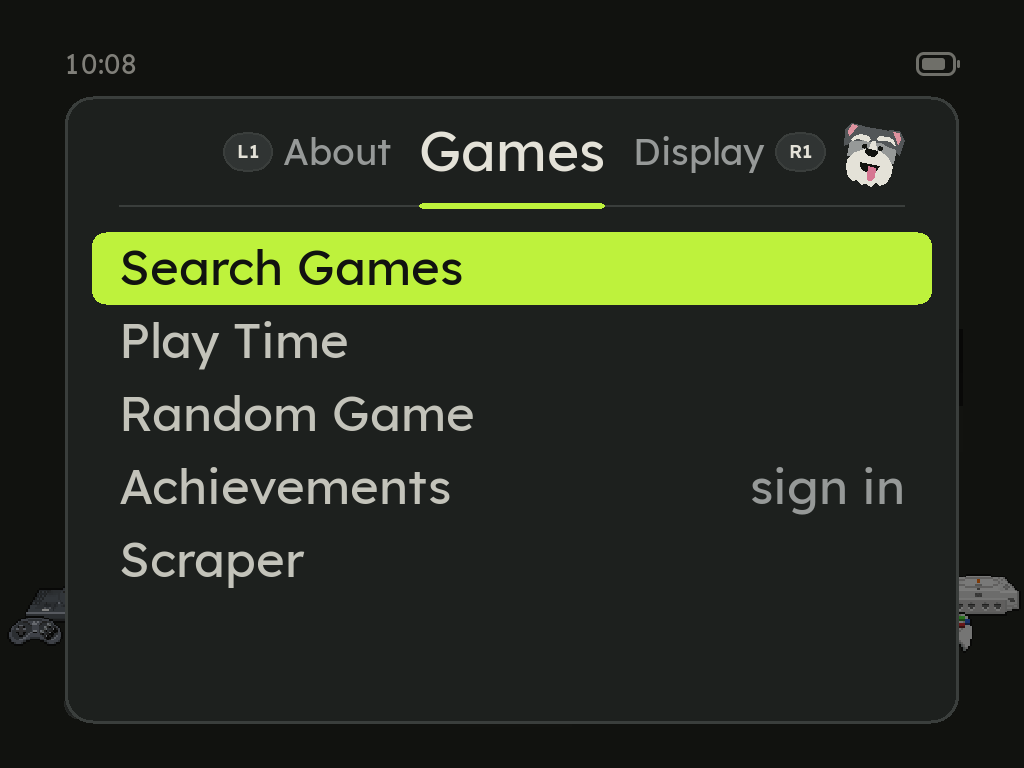
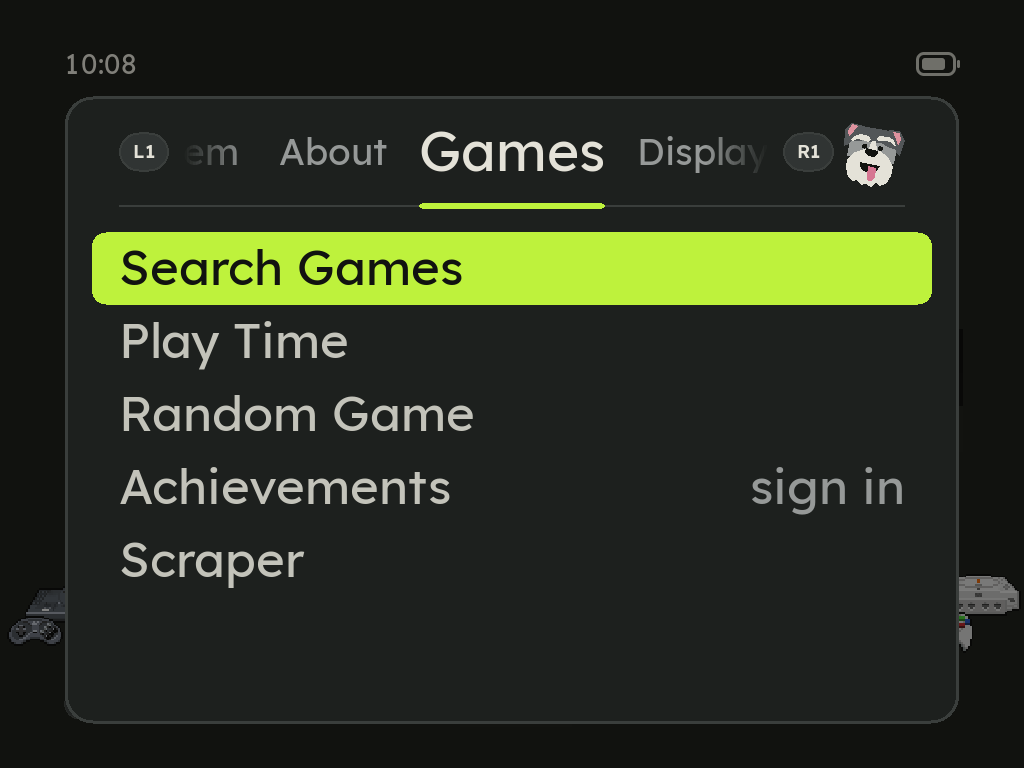
MENU's tab row: the whole band, fading into its ends
The tab row now has the whole heading band: L1 at the content's left
inset, R1 at its right end, a grid step and a half before Zyper (or the
content's edge with Zyper off), and between them the tabs either side of
the one that is on, two each way, going on round as far as they reach.
What reaches an end fades into it (ui_text_faded) rather than being left
out, so a long name shows as much as fits. The glyphs hold still while
L1 and R1 slide the tabs. From my test of 1.0.5 on the Pixel 2.

Changed region(s): [[0.5938, 0.1562, 0.8125, 0.2188], [0.1875, 0.1562, 0.375, 0.2188], [0.125, 0.1875, 0.1562, 0.2188]]

diff --git a/src/main.c b/src/main.c
@@ -5432,65 +5432,80 @@ static float menu_tabs_p(const menu_tabs *t)
 	return ds_out((float)el / DS_MS_MOVE);
 }
 
-/* One tab's row: the tab in **label** **text**, centered as the heading was;
- * its neighbours in **meta** **text-dim**, each beside the shoulder button
- * that goes there (DESIGN.md 11.9's pill, at 40 as the keyboard's action
- * keys); a neighbour that does not fit whole on its side, between the
- * content's inset and Zyper, is left out and its button stands beside the
- * name, since a name is never cut. Returns the tab's name's width, for the
- * bar under it. `dx` and `op` draw it moved and faded, for a move. */
-static int menu_tab_row(app *a, int at, int cx, int cy, int zone_l, int zone_r,
-                        int dx, float op)
+/* How many tabs MENU's tab row shows either side of the one that is on, as
+ * far as they reach: the next and the one after, and the same back */
+#define MENU_TAB_SIDE 2
+
+/* One tab's row (DESIGN.md 11.3): the tab in **label** **text**, centered as
+ * the heading was, and the tabs either side of it in **meta** **text-dim**,
+ * going on round, laid out from it outward across the whole band between
+ * the L1 and R1 glyphs (`lo` to `hi`); what reaches an end fades into it
+ * over MENU_TAB_FADE, so a long name is shown as far as it fits and never
+ * cut hard (2026-11-12: "use the full width up to the zyper icon (if
+ * present) and kinda fade away on the extremes before the shoulder
+ * buttons"). Returns the tab's name's width, for the bar under it. `dx` and
+ * `op` draw it moved and faded, for a move. */
+#define MENU_TAB_FADE 64
+static int menu_tab_row(app *a, int at, int cx, int cy, int lo, int hi, int dx, float op)
 {
 	TTF_Font *fh = ui_font(UI_F_LABEL), *fm = ui_font(UI_F_META);
 	const char *cur = sys_menu_tab_name((pm_tab)at);
-	const char *prev = sys_menu_tab_name((pm_tab)((at + PT_TABS - 1) % PT_TABS));
-	const char *next = sys_menu_tab_name((pm_tab)((at + 1) % PT_TABS));
-	const int gap = 28, gpad = 10, size = 40;
-	int aw = ui_text_width(fh, cur), pw = ui_text_width(fm, prev), nw = ui_text_width(fm, next);
-	int lw = ui_button_width("L1", size), rw = ui_button_width("R1", size);
-	int cur_x = cx - aw / 2, prev_x = cur_x - gap - pw, next_x = cx + aw / 2 + gap;
-	bool show_prev = prev_x - gpad - lw >= zone_l;
-	bool show_next = next_x + nw + gpad + rw <= zone_r;
-	int l1 = show_prev ? prev_x - gpad - lw / 2 : cur_x - 28 - lw / 2;
-	int r1 = show_next ? next_x + nw + gpad + rw / 2 : cx + aw / 2 + 28 + rw / 2;
-	Uint8 al = (Uint8)(op * 255.0f + 0.5f);
+	const int gap = 32, apart = 40;
+	int aw = ui_text_width(fh, cur), cur_x = cx - aw / 2, k, x;
 	SDL_Color dim = UI_TEXT_DIM, txt = UI_TEXT;
 
 	dim.a = (Uint8)(dim.a * op);
-	txt.a = al;
-	if (show_prev) ui_text(a->r, fm, prev, prev_x + dx, ui_cap_y(fm, cy), -1, dim);
-	if (show_next) ui_text(a->r, fm, next, next_x + dx, ui_cap_y(fm, cy), -1, dim);
-	ui_text(a->r, fh, cur, cur_x + dx, ui_cap_y(fh, cy), -1, txt);
-	ui_button_pressed(a->r, "L1", l1 + dx, cy, size, UI_BUTTON_PLAIN, 0.0f, 1.0f, op);
-	ui_button_pressed(a->r, "R1", r1 + dx, cy, size, UI_BUTTON_PLAIN, 0.0f, 1.0f, op);
+	txt.a = (Uint8)(op * 255.0f + 0.5f);
+	/* back: the tab before, ending a gap left of the name, then the one
+	 * before that, while any of it is still inside */
+	for (k = 1, x = cur_x - gap; k <= MENU_TAB_SIDE && x + dx > lo; k++) {
+		const char *t = sys_menu_tab_name((pm_tab)((at - k + 2 * PT_TABS) % PT_TABS));
+
+		x -= ui_text_width(fm, t);
+		ui_text_faded(a->r, fm, t, x + dx, ui_cap_y(fm, cy), lo, hi, MENU_TAB_FADE, dim);
+		x -= apart;
+	}
+	/* on: the tab after, then the one after that */
+	for (k = 1, x = cx + aw / 2 + gap; k <= MENU_TAB_SIDE && x + dx < hi; k++) {
+		const char *t = sys_menu_tab_name((pm_tab)((at + k) % PT_TABS));
+
+		ui_text_faded(a->r, fm, t, x + dx, ui_cap_y(fm, cy), lo, hi, MENU_TAB_FADE, dim);
+		x += ui_text_width(fm, t) + apart;
+	}
+	ui_text_faded(a->r, fh, cur, cur_x + dx, ui_cap_y(fh, cy), lo, hi, MENU_TAB_FADE, txt);
 	return aw;
 }
 
-/* MENU's tab row in the heading band, centered on the capitals at `cy`.
- * Moving, the tab it came from slides out the way the press went and the new
- * one in from the other side, in **move** on **out**. Returns the width of
- * the bar under the name (menu_tabs_bar), which takes the new name's width
- * as it goes. */
+/* MENU's tab row in the heading band, centered on the capitals at `cy`, the
+ * L1 glyph at the band's left end (`zone_l`) and R1 at its right end
+ * (`zone_r`, before Zyper, or the content's edge with him off), and the tabs
+ * between them. Moving, the tab it came from slides out the way the press
+ * went and the new one in from the other side, in **move** on **out**, and
+ * the glyphs hold still. Returns the width of the bar under the name
+ * (menu_tabs_bar), which takes the new name's width as it goes. */
 static int menu_tabs_draw(app *a, const menu_tabs *t, int cx, int cy,
                           int zone_l, int zone_r)
 {
+	const int size = 40, gpad = 12;
+	int lw = ui_button_width("L1", size), rw = ui_button_width("R1", size);
+	int lo = zone_l + lw + gpad, hi = zone_r - rw - gpad;
 	float p = menu_tabs_p(t);
 	int aw, w;
 
+	ui_button(a->r, "L1", zone_l + lw / 2, cy, size, UI_BUTTON_PLAIN);
+	ui_button(a->r, "R1", zone_r - rw / 2, cy, size, UI_BUTTON_PLAIN);
 	if (p < 1.0f && t->from != t->at) {
 		/* the old one gone in the first two fifths, as its rows are */
 		float op = 1.0f - p * 2.5f;
-		int ow = op > 0.0f ? menu_tab_row(a, t->from, cx, cy, zone_l, zone_r,
+		int ow = op > 0.0f ? menu_tab_row(a, t->from, cx, cy, lo, hi,
 		                                  (int)(-t->dir * 96 * p), op)
 		                   : ui_text_width(ui_font(UI_F_LABEL),
 		                                   sys_menu_tab_name((pm_tab)t->from));
 
-		aw = menu_tab_row(a, t->at, cx, cy, zone_l, zone_r,
-		                  (int)(t->dir * 96 * (1.0f - p)), p);
+		aw = menu_tab_row(a, t->at, cx, cy, lo, hi, (int)(t->dir * 96 * (1.0f - p)), p);
 		w = (int)(ow + (aw - ow) * p + 0.5f);
 	} else {
-		w = aw = menu_tab_row(a, t->at, cx, cy, zone_l, zone_r, 0, 1.0f);
+		w = aw = menu_tab_row(a, t->at, cx, cy, lo, hi, 0, 1.0f);
 	}
 	(void)aw;
 	return w;
@@ -5904,13 +5919,14 @@ static void menu_panel(app *a, const char *heading, const menu_row *rows,
 				        ui_cap_y(meta, hy + asc - cap / 2), 1, UI_TEXT_DIM);
 
 			if (g_menu_tabs) {
-				/* MENU's tab row, between the content's inset and Zyper
-				 * (his width and a grid step clear of him, as the mock) */
+				/* MENU's tab row, the whole band from the content's inset
+				 * to Zyper, a grid step and a half clear of him, or to the
+				 * content's edge with him off */
 				int zr = content_x + content_w;
 
 				if (g_menu_zyper && !look_zyper_off())
 					zr = panel.x + panel.w - pad
-					     - (int)(MENU_ZYPER_H * ZYPER_W / ZYPER_H) - 4;
+					     - (int)(MENU_ZYPER_H * ZYPER_W / ZYPER_H) - DS_GRID * 3 / 2;
 				tab_bar_w = menu_tabs_draw(a, g_menu_tabs, cx, hy + asc - cap / 2,
 				                           content_x, zr);
 			} else if (hw <= title_room) {

diff --git a/src/ui.c b/src/ui.c
@@ -1332,6 +1332,59 @@ static bool clip_in(SDL_Renderer *r, const SDL_Rect *c, const SDL_Rect *outer)
 	return true;
 }
 
+void ui_text_faded(SDL_Renderer *r, TTF_Font *f, const char *s, int x, int y,
+                   int lo, int hi, int fade, SDL_Color col)
+{
+	struct text_entry *e;
+	SDL_Rect clip, was, dst;
+	SDL_bool had;
+	int i, lf, rf;
+
+	if (!f || !s || !*s || hi <= lo || col.a == 0) return;
+	e = text_get(r, f, s, col);
+	if (!e) return;
+	dst = (SDL_Rect){ x, y, e->w, e->h };
+	if (x >= hi || x + e->w <= lo) return;              /* all outside */
+	/* Wholly inside and clear of both fades: as ui_text draws it */
+	if (x >= lo + fade && x + e->w <= hi - fade) {
+		ui_text(r, f, s, x, y, -1, col);
+		return;
+	}
+	/* The fades are only as wide as there is room for, between the ends */
+	lf = rf = fade;
+	if (lf + rf > hi - lo) lf = rf = (hi - lo) / 2;
+
+	had = SDL_RenderIsClipEnabled(r);
+	if (had) SDL_RenderGetClipRect(r, &was);
+	clip.y = y;
+	clip.h = e->h;
+	/* Each slice drawn once, at its own alpha, the clip choosing which part
+	 * of the text lands (the marquee's rule, below): the middle whole, then
+	 * the two fades a step at a time toward their ends */
+	clip.x = lo + lf;
+	clip.w = hi - rf - clip.x;
+	if (clip.w > 0 && clip_in(r, &clip, had ? &was : NULL)) {
+		SDL_SetTextureAlphaMod(e->tex, col.a);
+		SDL_RenderCopy(r, e->tex, NULL, &dst);
+	}
+	for (i = 0; i < lf; i += MQ_FADE_STEP) {
+		clip.x = lo + i;
+		clip.w = lf - i < MQ_FADE_STEP ? lf - i : MQ_FADE_STEP;
+		SDL_SetTextureAlphaMod(e->tex, (Uint8)(col.a * i / lf));
+		if (clip_in(r, &clip, had ? &was : NULL)) SDL_RenderCopy(r, e->tex, NULL, &dst);
+	}
+	for (i = 0; i < rf; i += MQ_FADE_STEP) {
+		int sw = rf - i < MQ_FADE_STEP ? rf - i : MQ_FADE_STEP;
+
+		clip.x = hi - i - sw;
+		clip.w = sw;
+		SDL_SetTextureAlphaMod(e->tex, (Uint8)(col.a * i / rf));
+		if (clip_in(r, &clip, had ? &was : NULL)) SDL_RenderCopy(r, e->tex, NULL, &dst);
+	}
+	SDL_SetTextureAlphaMod(e->tex, 255);
+	SDL_RenderSetClipRect(r, had ? &was : NULL);
+}
+
 void ui_text_marquee(SDL_Renderer *r, TTF_Font *f, const char *s,
                      int x, int y, int w, unsigned phase, SDL_Color col)
 {

diff --git a/src/ui.h b/src/ui.h
@@ -264,6 +264,15 @@ void ui_fit_tight(const char *s, int w, int room, int row_w);
  * Costs nothing this launcher was not already paying. Every screen redraws
  * every frame, and ui_text caches the rendered texture per (font, string,
  * color) - so sliding it is a moving destination rect, not a re-render. */
+/* `s` left-aligned at (x, y), shown only between `lo` and `hi` (screen x),
+ * and faded out over the last `fade` units at each of the two: what passes
+ * either end is gone, and what is near one dissolves into it, as a slid
+ * marquee's ends do. MENU's tab row (DESIGN.md 11.3): the tabs either side
+ * of the one that is on, fading before the L1 and R1 glyphs. Text wholly
+ * inside, clear of the fades, is drawn as ui_text draws it. */
+void ui_text_faded(SDL_Renderer *r, TTF_Font *f, const char *s, int x, int y,
+                   int lo, int hi, int fade, SDL_Color col);
+
 void ui_text_marquee(SDL_Renderer *r, TTF_Font *f, const char *s,
                      int x, int y, int w, unsigned phase, SDL_Color col);
 

diff --git a/DESIGN.md b/DESIGN.md
@@ -768,15 +768,22 @@ always more.
 **MENU's tabs.** MENU is in six tabs, **Games**, **Display**, **Sound**,
 **Connections**, **System** and **About**, and **L1** and **R1** go round
 them (src/sys_menu.h, `sys_menu_tab_of`). The heading band is the tab row:
-the tab that is on in **label** **text**, centered where the heading was;
-the tabs either side in **meta** **text-dim**, each beside the L1 or R1 glyph
-(11.9's pill at 40, as the keyboard's action keys) that goes there; and the
-home's underline, an **accent-ink** bar 6 high, on the heading's rule under
-the tab's name. A neighbour that does not fit whole on its side, between the
-content's inset and Zyper, is left out and its glyph stands beside the name,
-since a name is never cut. A press slides the rows out the way it went and
-the next tab's in from the other side, 64 units and faded up, and the tab row
-the same, 96, in **move** on **out**; the bar takes the new name's width. The
+the tab that is on in **label** **text**, centered where the heading was,
+and the home's underline, an **accent-ink** bar 6 high, on the heading's rule
+under its name. The row has the whole band: the L1 glyph (11.9's pill at 40,
+as the keyboard's action keys) at the content's left inset and R1 at its
+right end, which is a grid step and a half before Zyper, or the content's
+edge with Zyper off (3.5). Between them, the tabs either side in **meta**
+**text-dim**, two each way, going on round from the tab that is on as far
+as they reach; whatever reaches an end fades into it over 64 units, so a
+long name shows as much of itself as fits and is never cut hard
+(`ui_text_faded`). *(2026-11-12, from my test of 1.0.5: "use the full width
+up to the zyper icon (if present) and kinda fade away on the extremes
+before the shoulder buttons". Until then a neighbour that did not fit whole
+was left out.)* A press slides the rows out the way it went and the next
+tab's in from the other side, 64 units and faded up, and the tab row the
+same, 96, in **move** on **out**, the glyphs holding still; the bar takes
+the new name's width. The
 panel is as tall as the screen allows on every tab and as wide as the widest
 tab's rows, so it holds still as the tabs go round. MENU opens on Games after
 a start, and after that on the tab and row it was closed on, until the
